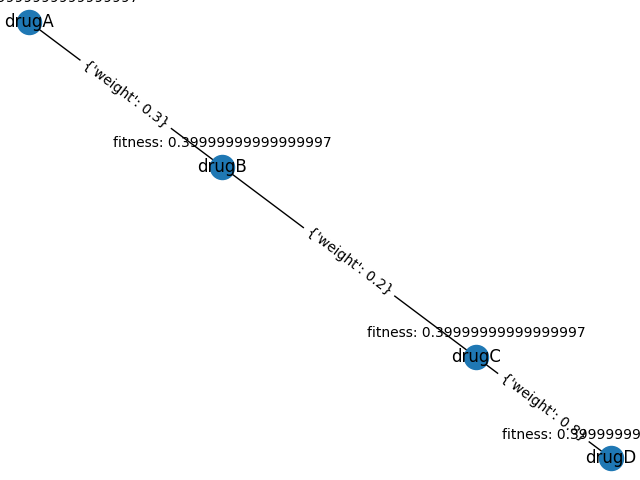
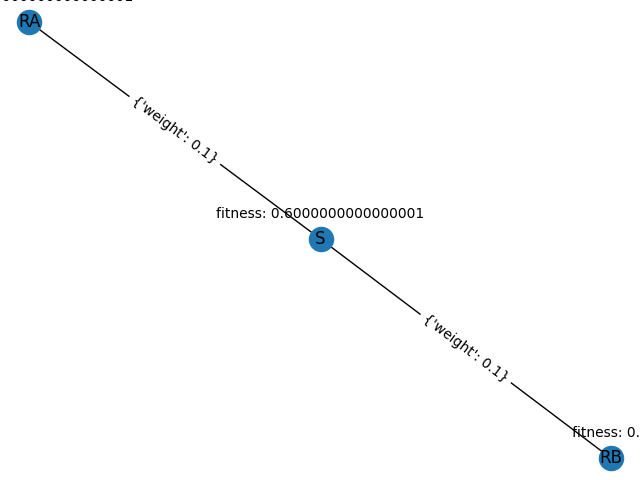
fixed avg fitness, added plotting

diff --git a/graph-model/main.py b/graph-model/main.py
@@ -10,7 +10,7 @@
     parameters and we can watch the network evolve.  
 
 """
-
+import pandas as pd
 import numpy as np
 import json
 import doctor
@@ -63,8 +63,9 @@ class Simulation():
         total = 0
         for node in self.graph.nxgraph.nodes:
             node.update_fitness()
-            total += node.fitness
-        self.graph.avgfitness =  total / (len(self.graph.nxgraph.nodes))
+            total += node.colony.prop*node.fitness
+        
+        self.graph.avgfitness =  total
 
     def update_proportion(self):
         """
@@ -80,14 +81,10 @@ class Simulation():
         
         Returns target node
         """
-        DEPTH = 1
+        DEPTH = 0.1
         # target_node = nx.maximal_independent_set(sim.graph.nxgraph)[0]
-
         all_degrees = list(self.graph.nxgraph.degree(self.graph.all_nodes, weight='weight'))
-
-        print(all_degrees)
-        target_node = max(all_degrees, key=lambda item:item[1])[0]
-
+        target_node = min(all_degrees, key=lambda item:item[1])[0]
         return target_node
 
 
@@ -96,7 +93,7 @@ class Simulation():
         """                
         target_node = self.doctor()
         print(f'Target Node: {target_node.colony.name}')
-        self.graph.apply_medicine(target_node, 0.9, debug=True)
+        self.graph.apply_medicine(target_node, 0.1, debug=True)
         
 
     def log(self):
@@ -109,26 +106,23 @@ if __name__ == "__main__":
     """
         Begins simulation
     """
-    MAX_TIME = 4
+    MAX_TIME = 10
     num_treatments = 2
     treatments = np.zeros(shape=(MAX_TIME, num_treatments))
 
     # Eventually put this into a json environment object
-    names = ['drugA', 'drugB', 'drugC', 'drugD']
+    names = ['RA', 'S', 'RB']
     relations = np.array([
-                    [1, 0.3, 0, 0],
-                    [0.3, 1, 0.2, 0],
-                    [0, 0.2, 1, 0.8],
-                    [0, 0, 0.8, 1]])
-    alphas = [0.3, 0.2, 0.3, 0.2]
-    props = [0.25, 0.25, 0.25, 0.25]
+                    [1, 0.1, 0],
+                    [0.1, 1, 0.1],
+                    [0, 0.1, 1] ])
+                    
+    alphas = [0.3, 0.3, 0.3]
+    props = [0.33, 0.34, 0.33]
 
     # Make environment
     env = Environment(names, relations, alphas, props)
-    
     graph = Graph(env)
-    
-
     sim = Simulation(env, graph, MAX_TIME)
 
     # Model parameters at time t = 0
@@ -136,6 +130,9 @@ if __name__ == "__main__":
     sim.graph.plot(0, fitness=True)
     sim.log()
 
+    dataframes = []
+    df = sim.graph.get_data()
+    dataframes.append(df)
     for t in range(1, MAX_TIME):
         print('-'*10 + f'SIMULATION TIME {t}' + '-'*10)
         
@@ -144,10 +141,31 @@ if __name__ == "__main__":
         sim.update_proportion() # Update proportion  MUST BE AFTER FITNESS 
         # gives visual
         sim.graph.plot(t, fitness=True)
-        
-        sim.log() # Log data
+        sim.log() # Log data to console
 
-    # Let doctor prescribe every 5 time intervals
-    doctor_num_treatments = 5 
+        # Log dataframes for plotting
+        df = sim.graph.get_data()
+        dataframes.append(df)
+
+    print(f'logged{len(dataframes)} dataframes')
     
-    
+    # Plot Data Proportion
+    filtered = np.array(list(map(lambda x: list(x['prop']), dataframes)))
+    print(filtered)
+    xaxis = [i for i in range(MAX_TIME)]
+    plt.plot(xaxis, filtered)
+    plt.title('Proportion vs Time')
+    plt.legend(names)
+    plt.savefig('Proportion vs time.png')
+    plt.close()
+
+    # Plot Data Fitness
+    filtered = np.array(list(map(lambda x: list(x['fitness']), dataframes)))
+    print(filtered)
+    xaxis = [i for i in range(MAX_TIME)]
+    plt.plot(xaxis, filtered)
+    plt.title('Fitness vs Time')
+    plt.legend(names)
+    plt.savefig('Fitness vs time.png')
+    plt.close()
+

diff --git a/graph-model/graph.py b/graph-model/graph.py
@@ -17,6 +17,7 @@
 import numpy as np
 import matplotlib.pyplot as plt
 import networkx as nx
+import pandas as pd
 
 class Colony():
     """
@@ -62,11 +63,11 @@ class Node():
         # TODO
         # W(v) = 1 - (cost of resis) - alpha*d_A(t) + (1-PA)X(T)
         
-        cost_of_resis = 0.3
-        alpha_medicine = self.colony.alpha*self.colony.resistant_to_med
+        cost_of_resis = 0.1
+        alpha_medicine = self.colony.alpha*(1 - self.colony.resistant_to_med)
         third_term = 0.3
 
-        fitness = max(0, 1 - cost_of_resis - alpha_medicine - third_term )
+        fitness = max(0, 1 - cost_of_resis - alpha_medicine)
         self.fitness = fitness
     
     def get_node_info(self):
@@ -76,11 +77,6 @@ class Node():
     def update_colony(self, newalpha, newprop):
         self.colony.alpha = newalpha
         self.colony.prop = newprop
-
-
-    def treatment(self):
-        # TODO
-        pass
     
     def debug(self):
         return self.colony.name
@@ -117,6 +113,26 @@ class Graph():
 
         We choose this design for quick lookup for doctor treatment.
     """
+
+
+    def get_data(self):
+        """
+            Returns pandas dataframe at current timestep
+        """
+        
+        all = []
+        for node in self.nxgraph.nodes:
+            dic = {
+                    'name': node.colony.name,
+                    'fitness': float(node.fitness),
+                    'prop': float(node.colony.prop),
+                  }
+            all.append(dic)
+        return pd.DataFrame(all)
+            
+            
+
+
 
     def log(self):
         """ Prints debug information  """
@@ -247,20 +263,3 @@ class Graph():
             print(f'Updated dA parameters:')
 
         
-
-
-
-
-# Stale
-if __name__ == "__main__":
-    coord1 = np.array([0, 1, 0])
-    progenitor = Node("origin", 0, coord1)
-    graph = Graph(dims=3)
-    graph.add_node(progenitor)
-
-    for t in range(100):
-        eps = np.random.normal(coord1.shape)
-        pt = np.random.choice(np.array(list(graph.points.keys())))
-        newnode = Node(str(t+1), t, graph.points[pt] + eps)
-        graph.add_node(newnode)
-    graph.display("random")
